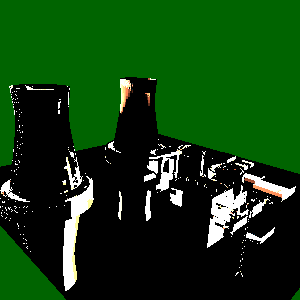
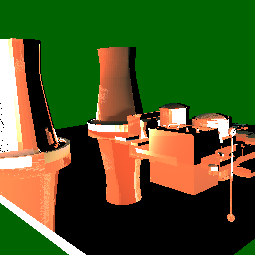
Modification multiple actors

diff --git a/rtx.py b/rtx.py
@@ -168,21 +168,7 @@ class QMeshViewer(QtWidgets.QFrame):
         ##SUN's NORMALS
         # # Create a new 'vtkPolyDataNormals' and connect to the sun sphere
         #################################
-        normalsCalcSun = vtk.vtkPolyDataNormals()
-        normalsCalcSun.SetInputConnection(self.sun_ball.GetOutputPort())
-
-        # Disable normal calculation at cell vertices
-        normalsCalcSun.ComputePointNormalsOff()
-        # Enable normal calculation at cell centers
-        normalsCalcSun.ComputeCellNormalsOn()
-        # Disable splitting of sharp edges
-        normalsCalcSun.SplittingOff()
-        # Disable global flipping of normal orientation
-        normalsCalcSun.FlipNormalsOff()
-        # Enable automatic determination of correct normal orientation
-        normalsCalcSun.AutoOrientNormalsOn()
-        # Perform calculation
-        normalsCalcSun.Update()
+        normalsCalcSun = getNormals(self.sun_ball)
 
         # Create a 'dummy' 'vtkCellCenters' to force the glyphs to the cell-centers
         dummy_cellCenterCalcSun = vtk.vtkCellCenters()
@@ -232,6 +218,13 @@ class QMeshViewer(QtWidgets.QFrame):
             # point.SetThetaResolution(1)
             self.cellCenterSun.append(point)
 
+
+        blue_sphere_actor, blue_sphere = addPoint(self.renderer, [100, 100, 100], 
+                                                radius=50, color=[0, 0, 0.5])
+        blue_sphere_actor.GetProperty().SetAmbientColor(0, 0, 0.1)
+        blue_sphere_actor.GetProperty().SetDiffuseColor(0, 0, 0.7)
+        blue_sphere_actor.GetProperty().SetSpecularColor(1, 1, 1)
+
         #For the intersections
         self.obbTrees = []
         obbTree = vtk.vtkOBBTree()
@@ -239,21 +232,24 @@ class QMeshViewer(QtWidgets.QFrame):
         obbTree.BuildLocator()
         self.obbTrees.append(obbTree)
 
+        obbTree2 = vtk.vtkOBBTree()
+        obbTree2.SetDataSet(blue_sphere_actor.GetMapper().GetInput())
+        obbTree2.BuildLocator()
+        self.obbTrees.append(obbTree2)
+
+
+
         self.actorsOfTree = []
         self.actorsOfTree.append(self.powerplant_actor)
+        self.actorsOfTree.append(blue_sphere_actor)
 
         #################################
         #LIVE RTX COMPUTING
         # #################################
         # Create a new 'vtkPolyDataNormals' and connect to our model
-        normalsCalcModel = vtk.vtkPolyDataNormals()
-        normalsCalcModel.SetInputConnection(powerplant_reader.GetOutputPort())
-        normalsCalcModel.ComputePointNormalsOff()
-        normalsCalcModel.ComputeCellNormalsOn()
-        normalsCalcModel.SplittingOff()
-        normalsCalcModel.FlipNormalsOff()
-        normalsCalcModel.AutoOrientNormalsOn()
-        normalsCalcModel.Update()
+        
+        normalsCalcBlueSphere = getNormals(blue_sphere)
+        normalsCalcModel = getNormals(powerplant_reader)
 
         # Create a dummy 'vtkPoints' to act as a container for the point coordinates
         # where intersections are found
@@ -273,7 +269,9 @@ class QMeshViewer(QtWidgets.QFrame):
         # Extract the normal-vector data at the sun's cells
         self.normalsSun = normalsCalcSun.GetOutput().GetCellData().GetNormals()
         # Extract the normal-vector data at the model's cells
-        self.normalsModel = normalsCalcModel.GetOutput().GetCellData().GetNormals()
+        self.normalsModels = []
+        self.normalsModels.append(normalsCalcModel.GetOutput().GetCellData().GetNormals())
+        self.normalsModels.append(normalsCalcBlueSphere.GetOutput().GetCellData().GetNormals())
 
         # Loop through all of sun's cell-centers
         for idx in range(pointsCellCentersSun.GetNumberOfPoints()):
@@ -291,7 +289,7 @@ class QMeshViewer(QtWidgets.QFrame):
                 pointsInter, cellIdsInter, idx_tree = closestIntersect(self.obbTrees, pointSun, pointRayTarget)
 
                 # Get the normal vector at the earth cell that intersected with the ray
-                normalModel =  self.normalsModel.GetTuple(cellIdsInter[0])
+                normalModel =  self.normalsModels[idx_tree].GetTuple(cellIdsInter[0])
                 # Insert the coordinates of the intersection point in the dummy container
                 self.dummy_points.InsertNextPoint(pointsInter[0])
                 
@@ -779,9 +777,9 @@ class QMeshViewer(QtWidgets.QFrame):
         left = tr_mat@left
         right = tr_mat@right
         
-        cam_pos = np.array([0,0,2,1])#.reshape(-1,1)
+        cam_pos = np.array([0,0,2.5,1])#.reshape(-1,1)
         cam_pos = tr_mat@cam_pos
-        cam_pos = (cam_pos[0], cam_pos[1], cam_pos[2])
+        cam_pos = l2n([cam_pos[0], cam_pos[1], cam_pos[2]])
         # self.pos_Camera = cam_pos
 
         #     # Pour chaque pixel de l'image {
@@ -793,16 +791,16 @@ class QMeshViewer(QtWidgets.QFrame):
             for j, x in (enumerate(tabx)):
 
                 pixelPos = l2n((x, y, 0, 1))
-                pixelPos = n2l(tr_mat@pixelPos)
-                pixelPos = (pixelPos[0], pixelPos[1], pixelPos[2])
+                pixelPos = tr_mat@pixelPos
+                pixelPos = np.array([pixelPos[0], pixelPos[1], pixelPos[2]])
                 
-                direction = l2n(pixelPos) - l2n(cam_pos) #TODO : Changer focal pour endroit du pixel
+                direction = pixelPos - cam_pos #TODO : Changer focal pour endroit du pixel
                 direction = direction / np.linalg.norm(direction)
                 
                 pixelColor = (0,0,0)
                 
                 # Créer un rayon qui, de l'oeil, passe par ce pixel
-                pointRayTarget = n2l(l2n(cam_pos) + RayCastLength*direction)
+                pointRayTarget = cam_pos + RayCastLength*direction
 
                 if anyHit(self.obbTrees, cam_pos, pointRayTarget):
                     pointsInter, cellIdsInter, idx_tree = closestIntersect(self.obbTrees,
@@ -811,17 +809,13 @@ class QMeshViewer(QtWidgets.QFrame):
                     # TODO : Garder le plus proche des points d'intersect
                     # ANSWER TODO : C'est le pointsInter[0]; pointsInter étant la liste de tous les points d'intersections, le [0] c'est le premier
 
-                    normalModel = self.normalsModel.GetTuple(cellIdsInter[0])
+                    normalModel = l2n(self.normalsModels[idx_tree].GetTuple(cellIdsInter[0]))
+                    
+                    point = l2n(pointsInter[0])
+                    vecInc = point - cam_pos # Vector from cam to intersect
+                    vecInc = vecInc / np.linalg.norm(vecInc)
 
-                    vecInc = l2n(pointsInter[0] - l2n(cam_pos)) # Vector from cam to intersect
-                    vecInc = n2l(vecInc / np.linalg.norm(vecInc))
-
-                    # Calculate the reflected ray vector
-                    #vecRef = calcVecR(vecInc, normalModel)
-                    #vecRef = vecRef / np.linalg.norm(vecRef)
-                    # recursive call here
-
-                    pixelColor = clip(n2l(self.radianceAtPoint(vecInc, pointsInter[0], normalModel, 0, max_depth=max_depth)))
+                    pixelColor = clip(n2l(self.radianceAtPoint(vecInc, point, normalModel, 0, max_depth=max_depth)))
                 
                 else:
 
@@ -855,42 +849,41 @@ class QMeshViewer(QtWidgets.QFrame):
                 
         else:
             ray_dir = calcVecR(ray_origin, N)
-            out_ray_point = n2l(l2n(point) + RayCastLength*l2n(ray_dir))
-            point = n2l(l2n(N) * 1e-5 + l2n(point)) # To avoid hitting itself
+            out_ray_point = n2l(point + RayCastLength*l2n(ray_dir))
+            point = N * 1e-5 + point # To avoid hitting itself
 
             if anyHit(self.obbTrees, point, out_ray_point):
                 pointsInter, cellIdsInter, idx_tree = closestIntersect(self.obbTrees,
                                                             point,
                                                             out_ray_point)
                 actor = self.actorsOfTree[idx_tree]
+                nextN = l2n(self.normalsModels[idx_tree].GetTuple(cellIdsInter[0]))
 
-                nextN = self.normalsModel.GetTuple(cellIdsInter[0])
+                nextPoint = l2n(pointsInter[0])
                 
-                intersection_to_light = l2n(self.pos_Light) - l2n(pointsInter[0])
+                intersection_to_light = l2n(self.pos_Light) - nextPoint
                 intersection_to_light /= np.linalg.norm(intersection_to_light)
 
                 intensity = self.light.GetIntensity()
 
                 if anyHit(self.obbTrees, self.pos_Light, point):
-                    direct_illumination = l2n((1, 1, 1))*intensity
+                    direct_illumination = np.array([1, 1, 1])*intensity
                 else:
-                    direct_illumination = l2n((0, 0, 0))
-
-                # Calculate the reflected ray vector
-
-                # GetBorderColor()
+                    direct_illumination = np.array([0, 0, 0])
 
 
 
                 #TODO : il faut set les specular et diffuse color du material au début
                 #Ou juste utiliser color ?
-                # ambientMat = l2n(actor.GetProperty().GetAmbientColor())
-                ambientMat = l2n(actor.GetProperty().GetColor())
-                # specularMat = l2n(actor.GetProperty().GetSpecularColor())
-                specularMat = l2n(actor.GetProperty().GetColor())
-                # diffuseMat = l2n(actor.GetProperty().GetDiffuseColor())
-                diffuseMat = l2n(actor.GetProperty().GetColor())
+                ambientMat = l2n(actor.GetProperty().GetAmbientColor())
+                # ambientMat = l2n(actor.GetProperty().GetColor())
+                specularMat = l2n(actor.GetProperty().GetSpecularColor())
+                # specularMat = l2n(actor.GetProperty().GetColor())
+                diffuseMat = l2n(actor.GetProperty().GetDiffuseColor())
+                # diffuseMat = l2n(actor.GetProperty().GetColor())
+                obj_col = l2n(actor.GetProperty().GetColor())
 
+                shininess = 20
 
                 ambientLight = l2n(self.light.GetAmbientColor()) * intensity
                 specularLight = l2n(self.light.GetSpecularColor()) * intensity
@@ -900,36 +893,28 @@ class QMeshViewer(QtWidgets.QFrame):
                 # ambiant
                 illumination = ambientMat * ambientLight
 
-                # diffuse
-                illumination += diffuseMat * diffuseLight * np.dot(intersection_to_light, N) * direct_illumination
+                # diffuse (lambert)
+                illumination += diffuseMat * diffuseLight \
+                    * np.max(np.dot(intersection_to_light, N),0) * obj_col
+                    # * color instead of direct_illumination
 
                 # specular
-                intersection_to_origin = ray_origin - l2n(pointsInter[0])
+                intersection_to_origin = ray_origin - nextPoint
                 intersection_to_origin /= np.linalg.norm(intersection_to_origin)
                 
                 H = intersection_to_light + intersection_to_origin
                 H /= np.clip(np.linalg.norm(H), 0, 1)
                 
-                illumination += specularMat * specularLight * np.dot(l2n(N), H) ** (100 / 4)
+                illumination += specularMat * specularLight * np.power(np.dot(N, H), (shininess / 4))
 
-                reflection = 0.8
+                reflection = 0.5
 
-                return illumination + reflection * np.clip(self.radianceAtPoint(point, pointsInter[0], nextN, depth + 1, max_depth=max_depth), 0, 1)
-                return color + self.radianceAtPoint(pointsInter[0], vecRef, depth + 1, cam_pos, max_depth=max_depth)
-                # TODO : Here, find the material and lambert part + how to sample rays
-                # terms = []
-                # for n in range(n_reflects):
-                
-                incoming_light_ray = l2n(self.radianceAtPoint(pointsInter[0], vecRef, depth + 1, max_depth=max_depth))
-                # lambert = 1 # Easy to compute 
-                # material = 1 # Hard to find in vtk
-                # terms.append(incoming_light_ray * material * lambert)
-                
-                # incoming_light = np.mean(np.asarray(terms), axis=0)
-                # return n2l(incoming_light * material * lambert)
+                return illumination + reflection \
+                    * np.clip(self.radianceAtPoint(point, nextPoint, nextN, depth + 1, 
+                                                max_depth=max_depth), 0, 1)
 
             else: # Reflext background color, here black so no background color
-                return l2n((0, 0, 0))
+                return np.array([0, 0, 0])
         return 0
 
 #endregion

diff --git a/utils.py b/utils.py
@@ -54,6 +54,7 @@ def addPoint(renderer, p, radius=5.0, color=[0.0, 0.0, 0.0], resolution=100):
     point.SetRadius(radius)
     point.SetPhiResolution(resolution)
     point.SetThetaResolution(resolution)
+    point.Update()
 
     mapper = vtk.vtkPolyDataMapper()
     mapper.SetInputConnection(point.GetOutputPort())
@@ -164,6 +165,18 @@ def GetIntersect(obbTree, pSource, pTarget):
         cellIdsInter.append(cellIds.GetId(idx))
     
     return pointsInter, cellIdsInter
+
+def getNormals(actor):
+    normalsCalc = vtk.vtkPolyDataNormals()
+    normalsCalc.SetInputConnection(actor.GetOutputPort())
+    normalsCalc.ComputePointNormalsOff()
+    normalsCalc.ComputeCellNormalsOn()
+    normalsCalc.SplittingOff()
+    normalsCalc.FlipNormalsOff()
+    normalsCalc.AutoOrientNormalsOn()
+    normalsCalc.Update()
+    return normalsCalc
+
 
 def clip(l):
     for i, e in enumerate(l) :
